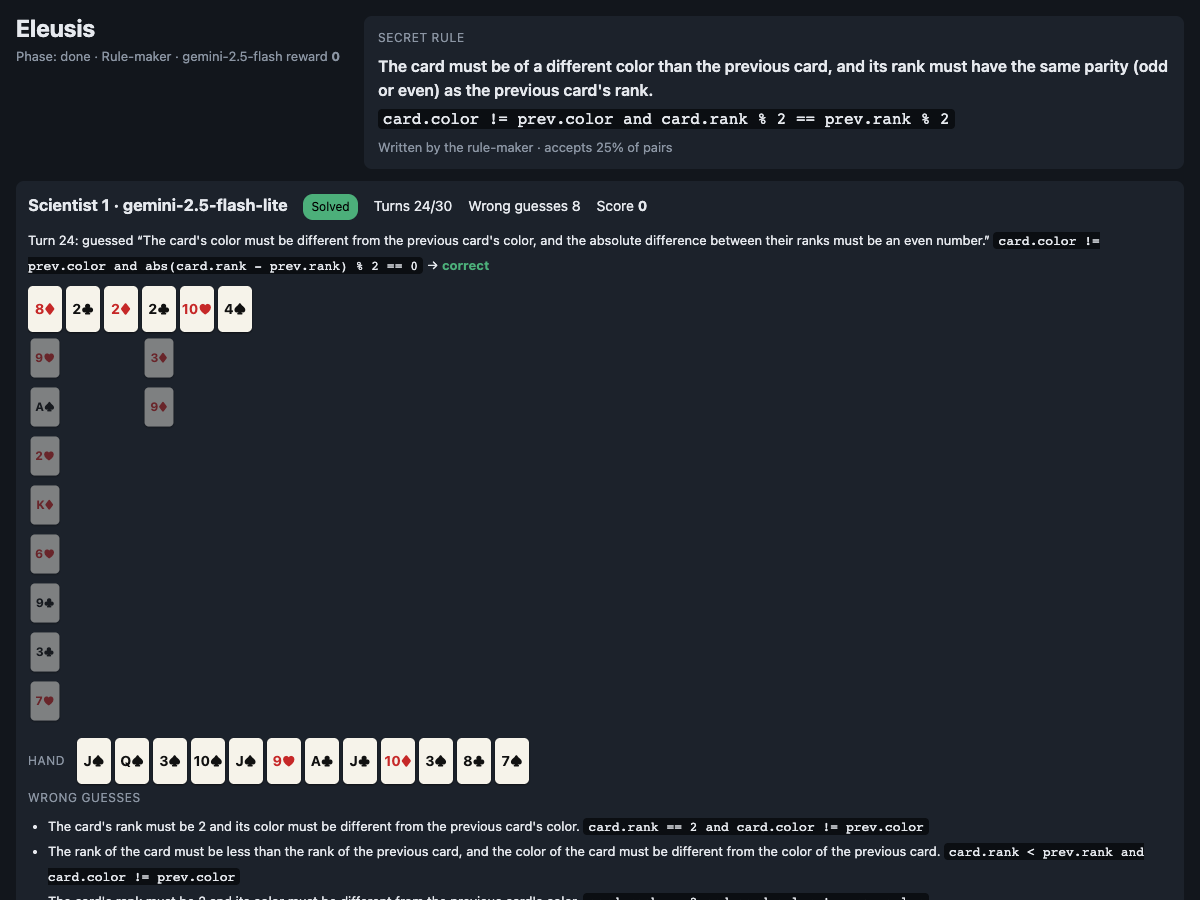
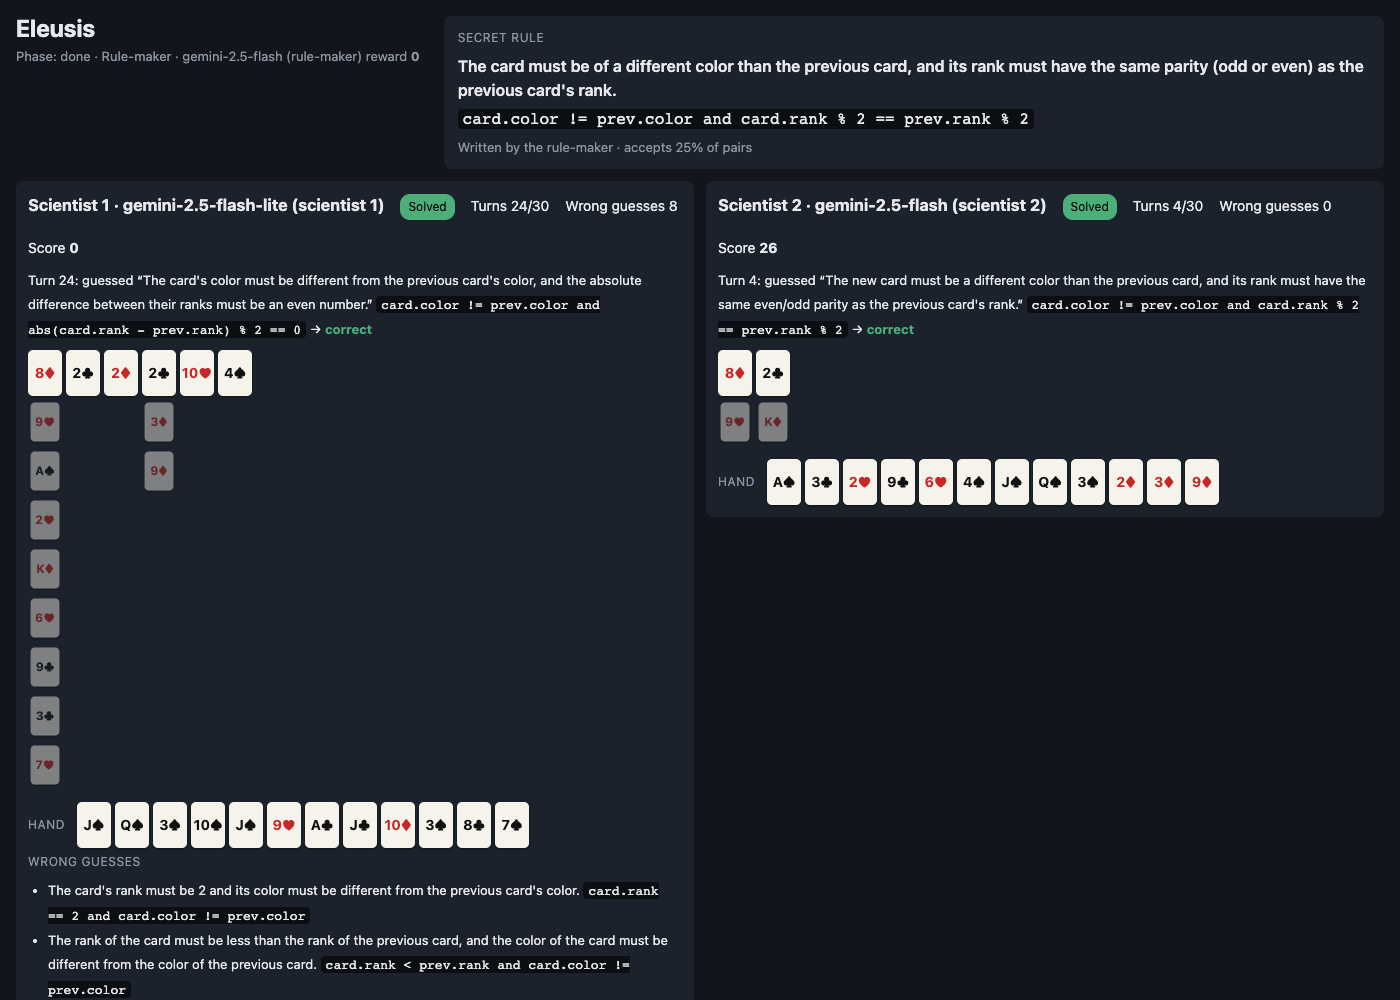
Show scientist tables side by side; add example game animation
Stacked tables pushed the second scientist off screen once the first had
a long sideline. Side by side, two tables with the same deal and rule
compare at a glance. Long wrong-guess lists now scroll.

Changed region(s): [[0.0, 0.0, 0.9867, 1.0]]

diff --git a/kaggle_environments/envs/eleusis/visualizer/default/src/style.css b/kaggle_environments/envs/eleusis/visualizer/default/src/style.css
@@ -69,6 +69,13 @@
 .eleusis .tables {
   display: grid;
   gap: 12px;
+  /* Scientists side by side so tables (same deal, same rule) compare at a glance; stacks on narrow screens. */
+  grid-template-columns: repeat(auto-fit, minmax(420px, 1fr));
+  align-items: start;
+}
+.eleusis .wrong ul {
+  max-height: 140px;
+  overflow-y: auto;
 }
 .eleusis .table {
   background: var(--panel);

diff --git a/kaggle_environments/envs/eleusis/docs/03-example-game.md b/kaggle_environments/envs/eleusis/docs/03-example-game.md
@@ -2,6 +2,8 @@
 
 A real game from [episode 002](04-episodes.md): Gemini 2.5 Flash writes the rule, then Flash and Flash-Lite try to discover it from the same deal. Wrong-guess penalty 2.
 
+![Replay of episode 002, step by step: Flash (right) solves the rule in 4 turns while Flash-Lite (left) piles up rejected cards and wrong guesses before solving on turn 24](images/example-game.gif)
+
 ## 1. The rule-maker writes a rule
 
 Flash (rule-maker) answered after 4.5k thinking tokens:
@@ -77,5 +79,6 @@ The rule-maker scores the second-highest scientist score. With 2 scientists that
 
 ## Watch it
 
+- **Animation:** the GIF at the top of this page, one frame per step.
 - **Replay JSON:** [`episodes/eleusis-episode-002.json`](episodes/eleusis-episode-002.json). This is the same format as a Kaggle episode replay.
-- **Visualizer:** see [Getting Started](05-getting-started.md#render-a-replay) to open it in the replay viewer.
+- **Interactive replay:** see [Getting Started](05-getting-started.md#render-a-replay) to open it in the replay viewer with play/pause and a step slider.

diff --git a/kaggle_environments/envs/eleusis/docs/01-description.md b/kaggle_environments/envs/eleusis/docs/01-description.md
@@ -13,4 +13,6 @@ No live Game Arena game tests inductive rule discovery. Chess and Go test search
 
 Guesses are scored exactly, with no LLM judge. A rule is one short restricted Python expression, and a guess is correct only if it gives the same answer as the secret rule on all 2,704 ordered card pairs of a 52-card deck. Two guesses written differently but meaning the same thing are both correct.
 
-![A finished Eleusis game: the secret rule at the top, one scientist's accepted cards in a row with rejected cards hanging under the card they failed to follow, its hand, and its wrong guesses](images/example-game.png)
+![A finished Eleusis game: the secret rule at the top, then each scientist's table side by side, with accepted cards in a row, rejected cards hanging under the card they failed to follow, the hand, and wrong guesses](images/example-game.png)
+
+See it play out step by step in the [Example Game](03-example-game.md).
